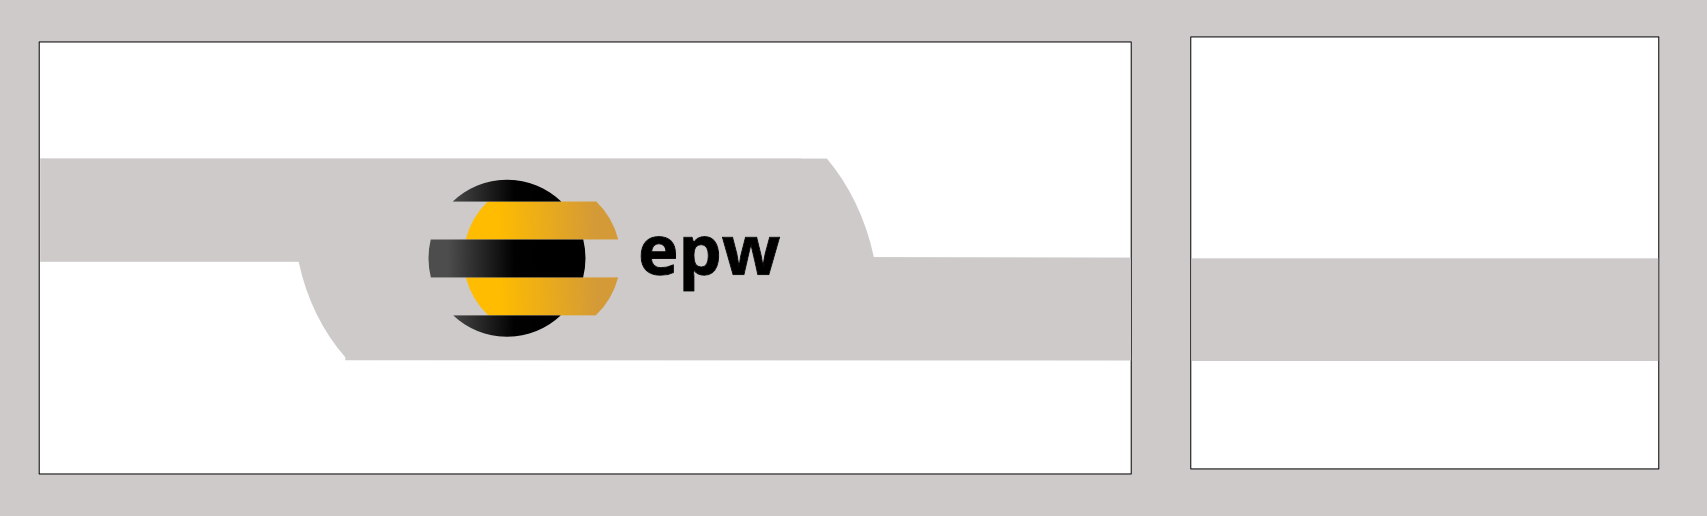
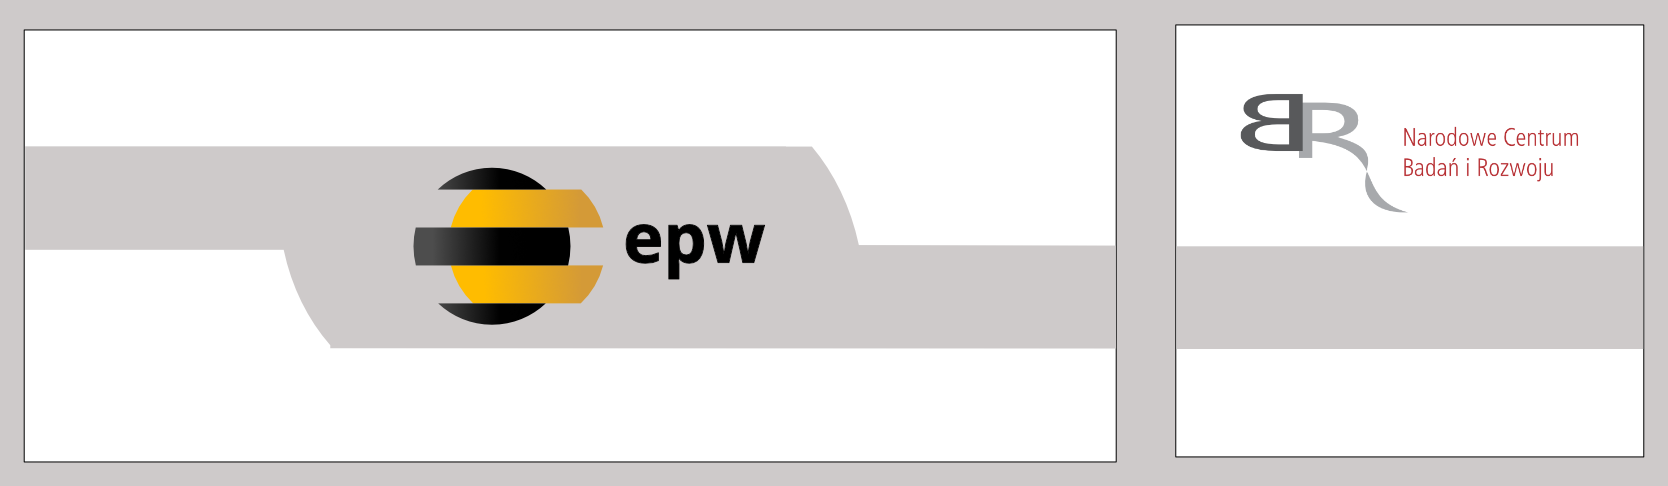
epw fin

diff --git a/epw-identyfikacja-fin.md b/epw-identyfikacja-fin.md
@@ -107,7 +107,7 @@ przekoe odwzorowują boki pudełka na grę
 
 <div style="background-color: #EBEBEB">
   <br>
-  <div style="text-align:center"><img src="{{ site.baseurl }}/images/epw-fin/ladowarka.png" onclick="toggle()" alt="a" style="width: 300px;"/></div>
+  <div style="text-align:center"><img src="{{ site.baseurl }}/images/epw-fin/ladowarka_2.png" onclick="toggle()" alt="a" style="width: 300px;"/></div>
   <br>
 </div>
 
